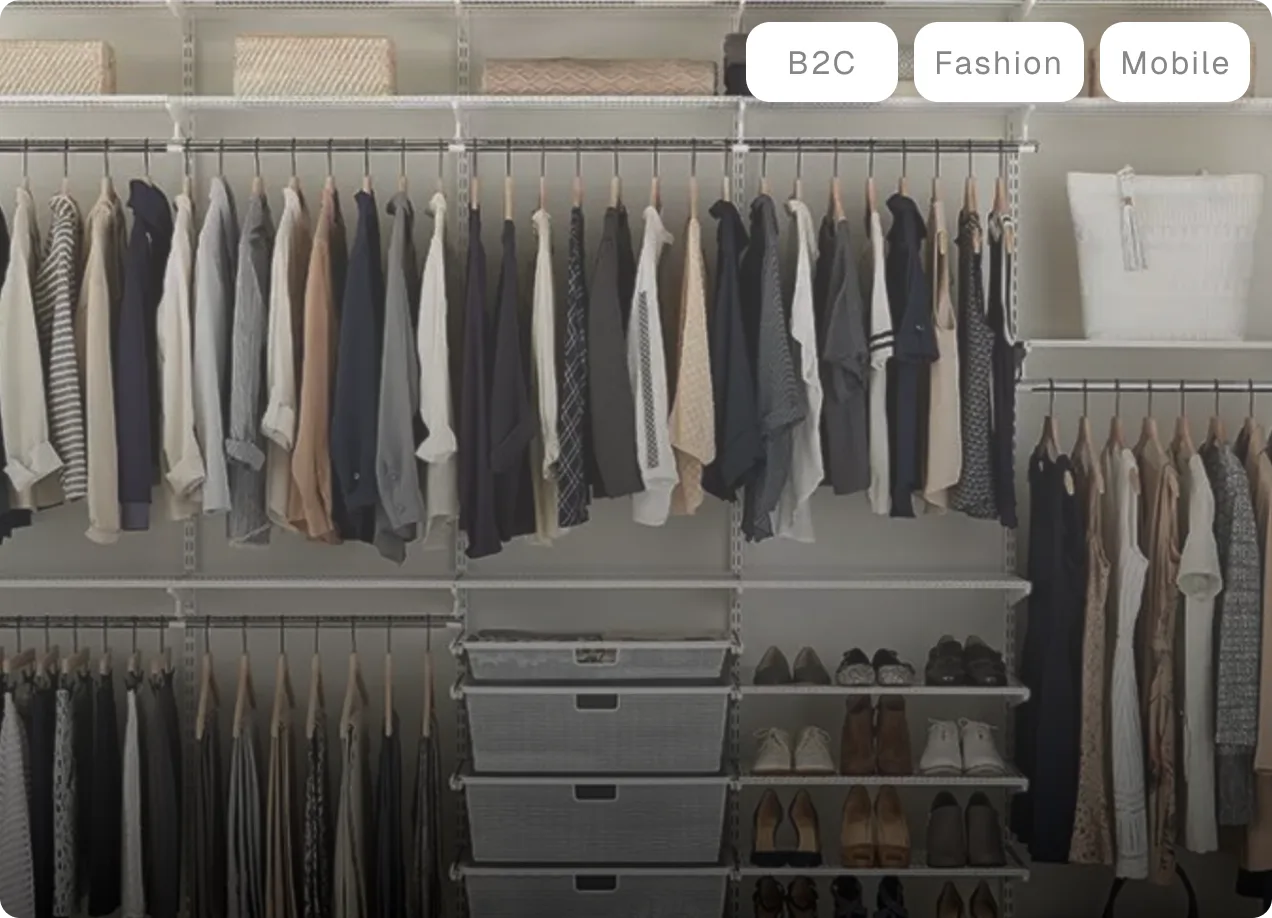
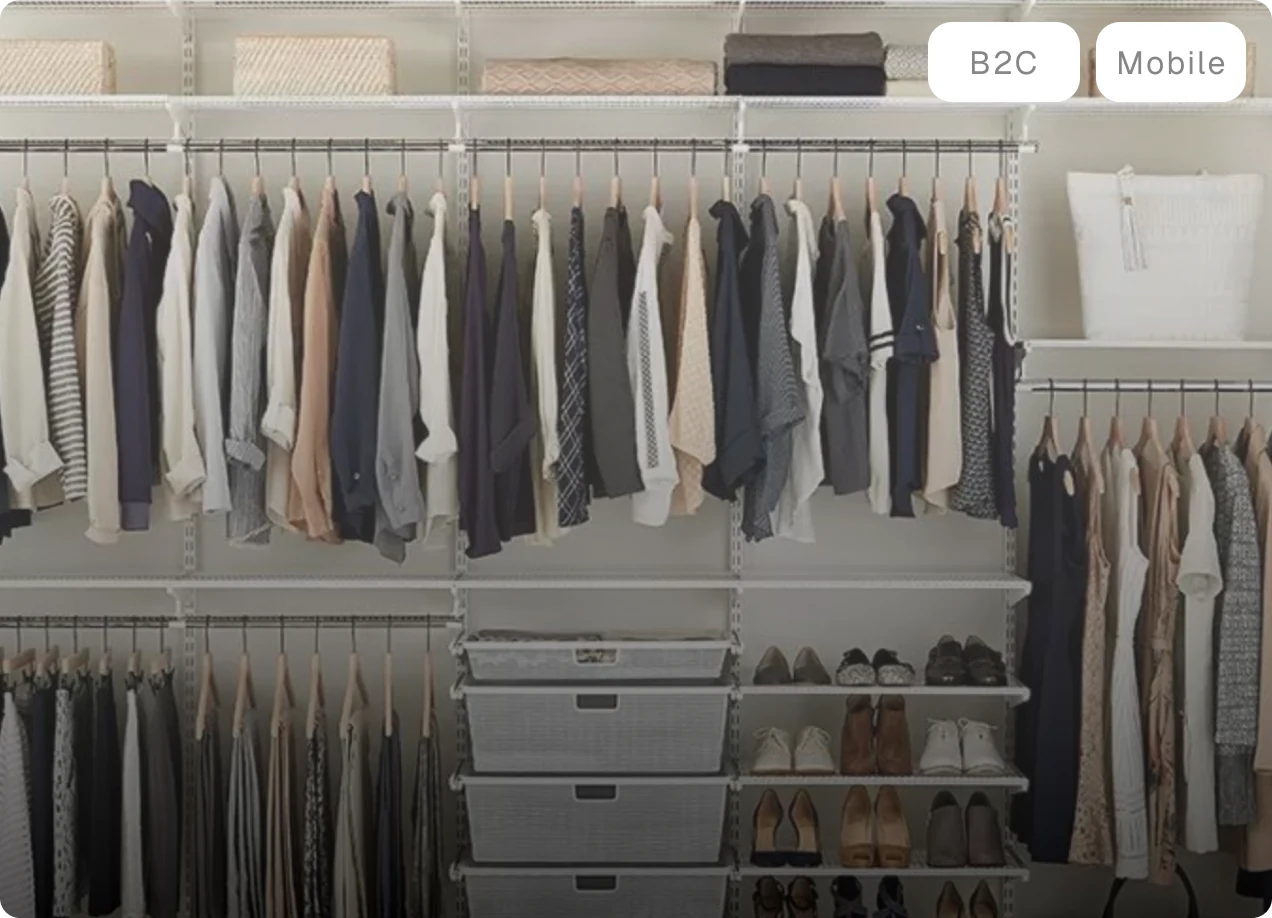
Swap in the new project card covers, and e-commerce in the hero
Both new covers are 1272x918, the same as the assets they replace, so the
cards keep their exact geometry -- no reflow. Converted PNG -> WebP with
alpha preserved, since the source corners are rounded and a flat RGB
convert would have filled them black.

Alt text updated to match what the images now show; the old text described
app screens and a dashboard that are no longer the subject.

The ThreadIt card keeps its phone-mockup video on top of the new photo:
it sits centred at 68% of the cover height and clears the B2C/Mobile chips
in the top-right corner.

Hero: "consumer technology" -> "e-commerce".

Changed region(s): [[0.0, 0.0, 1.0, 0.366]]

diff --git a/src/components/WorkCards.tsx b/src/components/WorkCards.tsx
@@ -62,7 +62,7 @@ export default function WorkCards() {
               Design Interactive • Jun 2026
             </RevealText>
             <div style={{ position: "relative", width: "100%" }}>
-              <RevealImage src="/assets/cover-threadit.webp" alt="ThreadIt app — closet, home, and planning screens" style={{ display: "block", width: "100%", height: "auto", borderRadius: 16 }} />
+              <RevealImage src="/assets/cover-threadit.webp" alt="A neatly organized closet of hanging clothes, shoes, and storage bins" style={{ display: "block", width: "100%", height: "auto", borderRadius: 16 }} />
               <RevealPhoneMockup style={{ position: "absolute", left: "50%", top: "50%", transform: "translate(-50%,-50%)", width: "26%", aspectRatio: "600/1206", filter: "drop-shadow(0 14px 30px rgba(44,54,74,.25))" }}>
                 <video
                   src="/assets/final-onboarding.mp4"
@@ -95,7 +95,7 @@ export default function WorkCards() {
               Design Interactive • Dec 2025
             </RevealText>
             <div style={{ position: "relative", width: "100%" }}>
-              <RevealImage src="/assets/cover-dicircle.webp" alt="di.circle messaging dashboard for connecting students with alumni" style={{ display: "block", width: "100%", height: "auto", borderRadius: 16 }} />
+              <RevealImage src="/assets/cover-dicircle.webp" alt="The di.circle messaging dashboard on a laptop, showing a student's conversation with a cohort member" style={{ display: "block", width: "100%", height: "auto", borderRadius: 16 }} />
               {/* not aria-hidden: this is the only statement that the card is
                   unavailable, so it has to reach assistive tech too */}
               <div className="work-card-overlay">

diff --git a/src/components/HeroVisuals.tsx b/src/components/HeroVisuals.tsx
@@ -669,7 +669,7 @@ export default function HeroVisuals() {
             stagger={0.04}
             style={{ margin: "clamp(20px,3vw,32px) 0 0", fontFamily: "var(--font-geist)", fontSize: "min(clamp(16px,2.2vw,24px), max(14px,3.7vw))", lineHeight: 1.4, textWrap: "balance", fontWeight: 300, color: "#3d3d3d" }}
           >
-            Seeking Product &amp; UX Design internships in creative tools, SaaS, and consumer technology
+            Seeking Product &amp; UX Design internships in creative tools, SaaS, and e-commerce
           </RevealText>
         </div>
       </div>
